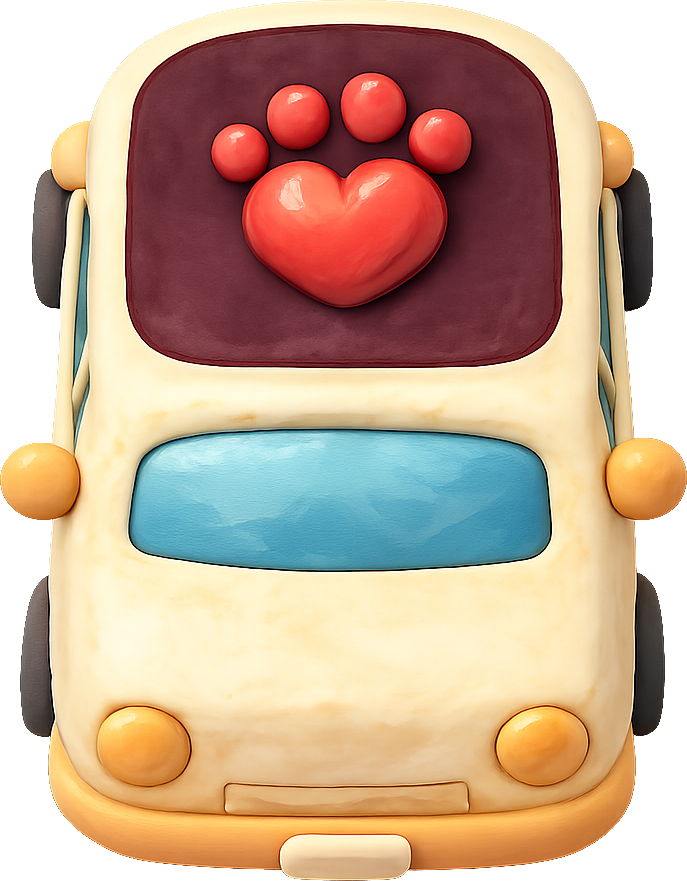
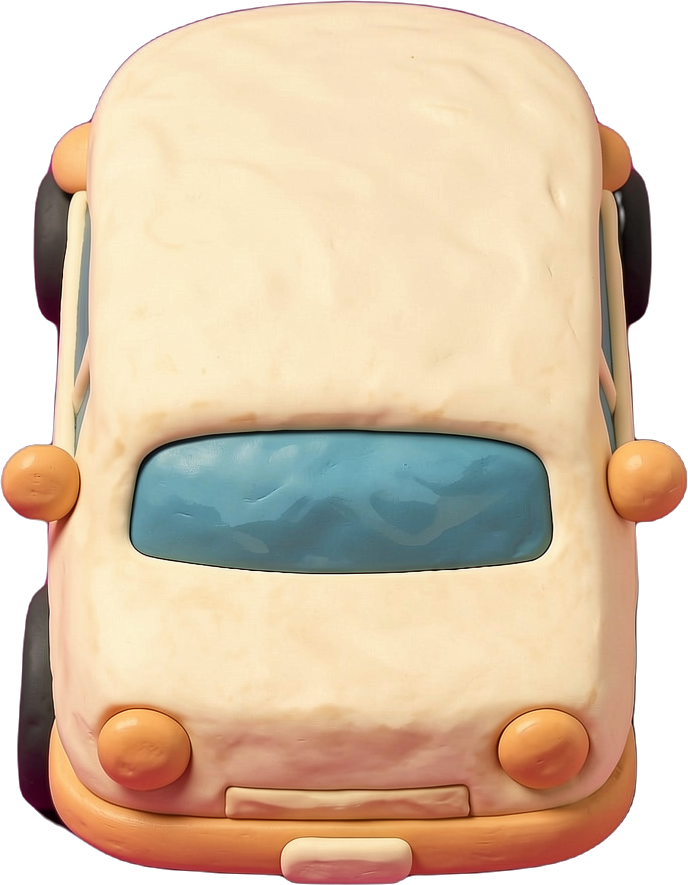
feat(driving): Henry front/rear views + player-van rear while driving
Henry's heart-paw moved off the roof (plain roof, front + rear) onto the
rear doors, shown in a new rear "driving away" view. makeVan now shows the
vehicle's -rear sprite in the travel phase and the front when parked/in the
picker; rear sprites are preloaded (soft-fail).

Rendered free via ComfyUI (flux2-klein-9b, conditioned on the front) + rembg
cutout. Traffic rears (car/tractor/ambulance/bus/Trikey/Big Tilly) and the
traffic front/rear wiring still to come.

diff --git a/apps/game/src/scenes/PtvDriveScene.ts b/apps/game/src/scenes/PtvDriveScene.ts
@@ -276,6 +276,11 @@ export class PtvDriveScene extends Phaser.Scene {
     for (const n of ['empty', '1', '2', '3', '4', '5']) {
       tryImg(`vehicle-topdown-skiptruck-${n}`, `vehicle-topdown-skiptruck-${n}.png`);
     }
+    // Rear ("driving away") views for the front-heavy vehicles. Missing files
+    // fail softly, so this list can run ahead of the art being rendered.
+    for (const n of ['henry', 'car-red', 'car-blue', 'car-yellow', 'tractor', 'ambulance', 'bus', 'trikey', 'big-tilly']) {
+      tryImg(`vehicle-topdown-${n}-rear`, `vehicle-topdown-${n}-rear.png`);
+    }
     for (const n of [...DECOR_KINDS, 'speed-camera']) {
       tryImg(`decor-${n}`, `decor/decor-${n}.png`);
     }
@@ -403,8 +408,12 @@ export class PtvDriveScene extends Phaser.Scene {
    *  procedural top-down van. Both are Transform game objects, so lane tweens,
    *  banking and the handbrake judder work either way. */
   private makeVan(): Phaser.GameObjects.Image | Phaser.GameObjects.Graphics {
-    // The picked fleet vehicle's sprite (falls back to Henry, then procedural).
-    const key = VEHICLE_SPRITE[this.vehicleId];
+    // The picked fleet vehicle's sprite. Driving away on the road → its REAR view
+    // (if one exists); parked in the forecourt / picker → its FRONT. Falls back
+    // to Henry, then the procedural draw.
+    const front = VEHICLE_SPRITE[this.vehicleId];
+    const rear = `${front}-rear`;
+    const key = this.phase === 'travel' && this.textures.exists(rear) ? rear : front;
     const useKey = this.textures.exists(key) ? key
       : this.textures.exists('vehicle-topdown-henry') ? 'vehicle-topdown-henry' : null;
     if (useKey) {

diff --git a/docs/vehicle-front-rear-2026-07-10.md b/docs/vehicle-front-rear-2026-07-10.md
@@ -46,6 +46,22 @@ Trikey, Henry, Bea, Big Tilly, Spark — side-profile and rear-elevation views (
 the picker cards and the future crate-loading loading-door view). Distinct from the
 top-down rear views above. Framing/use to confirm with Marcus.
 
+## Resolution (2026-07-11): Henry's badge on the rear doors
+Henry's heart-paw moved OFF the roof entirely — plain roof on both views — and
+onto the **rear doors**, visible in the rear (driving-away) view. Solves the
+flip problem (the door badge naturally faces us from behind). Free pipeline:
+ComfyUI (flux2-klein-9b, conditioned on the front sprite) → **rembg** cutout
+(installed in `~/.arc-rembg-venv`) → harden.
+
+Player-van wiring done: `makeVan` uses `<key>-rear` in the travel phase (driving
+away), the front `<key>` in select/parking/picker. Rear sprites preloaded (soft-
+fail so the list can run ahead of the art).
+
+Still to do: render the 8 traffic/fleet rears (car ×3, tractor, ambulance, bus,
+Trikey, Big Tilly) and wire the TRAFFIC front/rear split — same-direction traffic
+uses `-rear` at angle 0; oncoming uses the front at angle 0 (no 180° flip);
+plain top-down kinds keep the current single-sprite + 180° behaviour.
+
 ## Notes
 - Applies to the player's chosen fleet vehicle too (we always see its back), so
   flagged fleet vehicles need a rear view for the on-road/bay view; the front view
